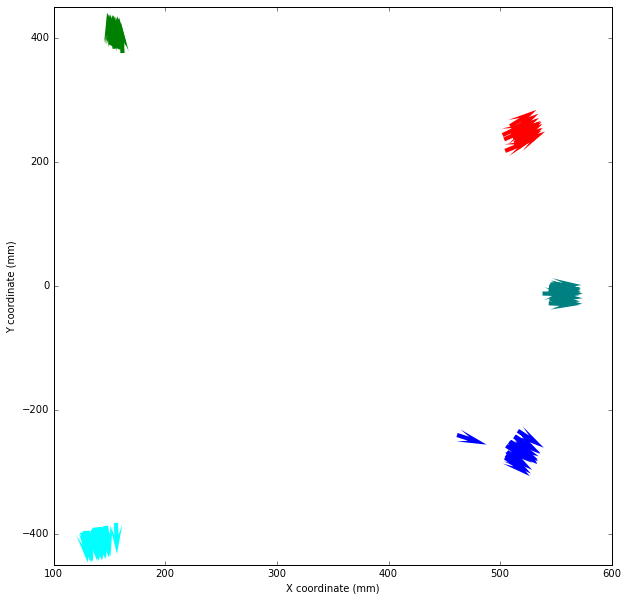
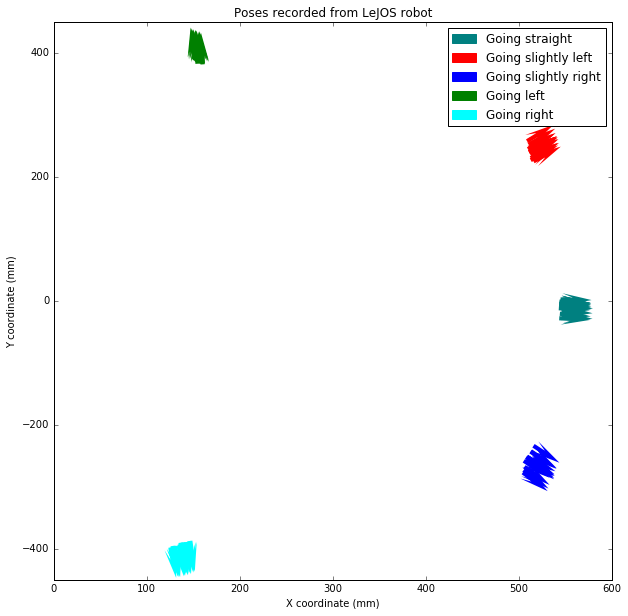
update image plot, add tex for report 2

diff --git a/SEE_BachHa_MinhNguyen_041016.tex b/SEE_BachHa_MinhNguyen_041016.tex
@@ -1,0 +1,144 @@
+\documentclass[paper=a4, fontsize=11pt]{scrartcl} % KOMA-article class
+
+%-------------------------------------------------
+%   THEMES, PACKAGES, CUSTOM COMMANDS
+%-------------------------------------------------
+\usepackage{blindtext}
+\usepackage[english]{babel}                             % English language/hyphenation
+\usepackage[protrusion=true,expansion=true]{microtype}  % Better typography
+\usepackage{amsmath,amsfonts,amsthm}                    % Math packages
+\usepackage[pdftex]{graphicx}                           % Enable pdflatex
+\usepackage[export]{adjustbox}
+\usepackage[svgnames]{xcolor}                           % Enabling colors by their 'svgnames'
+\usepackage[hang, small,labelfont=bf,up,textfont=it,up]{caption} % Custom captions under/above floats
+\usepackage{epstopdf}       % Converts .eps to .pdf
+\usepackage{subfig}         % Subfigures
+\usepackage{booktabs}       % Nicer tables
+\usepackage{fix-cm}         % Custom fontsizes
+\usepackage{listings}
+\usepackage{soul}
+
+\usepackage[foot=30pt,margin=1in]{geometry}
+
+% Custom sectioning (sectsty package)
+\usepackage{sectsty}
+\allsectionsfont{
+    \usefont{OT1}{phv}{b}{n}    % bch-b-n: CharterBT-Bold font
+}
+\sectionfont{
+    \usefont{OT1}{phv}{b}{n}
+}
+
+% Custom colors
+\definecolor{brsugrey}{rgb}{0.9, 0.9, 0.9}
+\definecolor{brsublue}{rgb}{0, 0.594, 0.949}
+
+%
+\newcommand{\upperRomannumeral}[1]{\uppercase\expandafter{\romannumeral#1}}
+
+% Creating an initial of the very first character of the content
+\usepackage{lettrine}
+\newcommand{\initial}[1]{%
+    \lettrine[lines=3,lhang=0.3,nindent=0em]{
+        \color{brsublue}
+        {\textsf{#1}}}{}}
+
+%-------------------------------------------------
+%   COMMON INFO
+%-------------------------------------------------
+\newcommand{\hmwkTitle}{Week \upperRomannumeral{2} report}
+\newcommand{\hmwkDueDate}{Tuesday, October 4, 2016}
+\newcommand{\hmwkClass}{Scientific Evaluation and Experimentation}
+\newcommand{\hmwkClassShort}{SEE WS2016}
+\newcommand{\hmwkAuthorFullName}{Minh H. Nguyen \& Bach D. Ha}
+\newcommand{\hmwkAuthorLastName}{Nguyen \& Ha}
+\newcommand{\hmwkAuthorEmail}{minh.nguyen@smail.inf.h-brs.de\\
+                              bach.ha@smail.inf.h-brs.de}
+\newcommand{\hmwkAuthorInstitute}{BRS University of Applied Sciences}
+
+%-------------------------------------------------
+%   HEADERS & FOOTERS
+%-------------------------------------------------
+\usepackage{fancyhdr}
+\pagestyle{fancy}
+\usepackage{lastpage}
+% Header (empty)
+\lhead{}
+\chead{}
+\rhead{}
+% Footer (you may change this to your own needs)
+\lfoot{\footnotesize
+    \texttt{\hmwkClassShort} ~
+    \textbullet ~ \hmwkAuthorLastName ~
+    \textbullet ~ \hmwkTitle}
+\cfoot{}
+\rfoot{\footnotesize page \thepage\ of \pageref{LastPage}}  % "Page 1 of 2"
+\renewcommand{\headrulewidth}{0.0pt}
+\renewcommand{\footrulewidth}{0.4pt}
+
+%-------------------------------------------------
+%   TITLE & AUTHOR
+%-------------------------------------------------
+\usepackage{titling}
+
+\newcommand{\HorRule}{\color{brsublue}% Creating a horizontal rule
+    \rule{\linewidth}{1pt}%
+    \color{black}
+}
+
+% Title
+\pretitle{
+    \vspace{-30pt}
+    \begin{flushleft}
+        \HorRule
+        \fontsize{22}{22} \usefont{OT1}{phv}{b}{n} \color{gray} \selectfont
+}
+\title{\hmwkClass \\
+       \hmwkTitle}
+\posttitle{
+    \par
+    \end{flushleft}
+    \vskip 0.5em
+}
+
+% Author
+\preauthor{
+    \begin{flushleft}
+        \large \lineskip 0.25em
+        \usefont{OT1}{phv}{b}{sl} \color{brsublue}}
+
+\author{\hmwkAuthorFullName}
+
+\postauthor{
+        \footnotesize
+        \usefont{OT1}{phv}{m}{sl} \color{Black}
+        \\\hmwkAuthorInstitute
+        \\\hmwkAuthorEmail
+        \par
+    \end{flushleft}
+    \HorRule}
+
+% Date
+\date{\hmwkDueDate}
+
+%-------------------------------------------------
+%   BEGIN
+%-------------------------------------------------
+\begin{document}
+    \maketitle
+    \thispagestyle{fancy} % Enabling the custom headers/footers for the first page
+
+    \section{Experiment results}
+    
+    \begin{figure}[h]
+        \begin{center}
+            \setlength{\fboxsep}{0.5pt} %
+            \setlength{\fboxrule}{0.5pt}
+            \includegraphics[width=13.0cm,fbox]{images/poses_plot_5_experiments.png}
+            \caption{Fully connected feedforward network with 10 source nodes, 2 hidden layers of 4 and 3 neurons, and one output neuron.}
+        \end{center}
+    \end{figure}
+    
+    \subsection{Going straight forward}
+
+\end{document}
